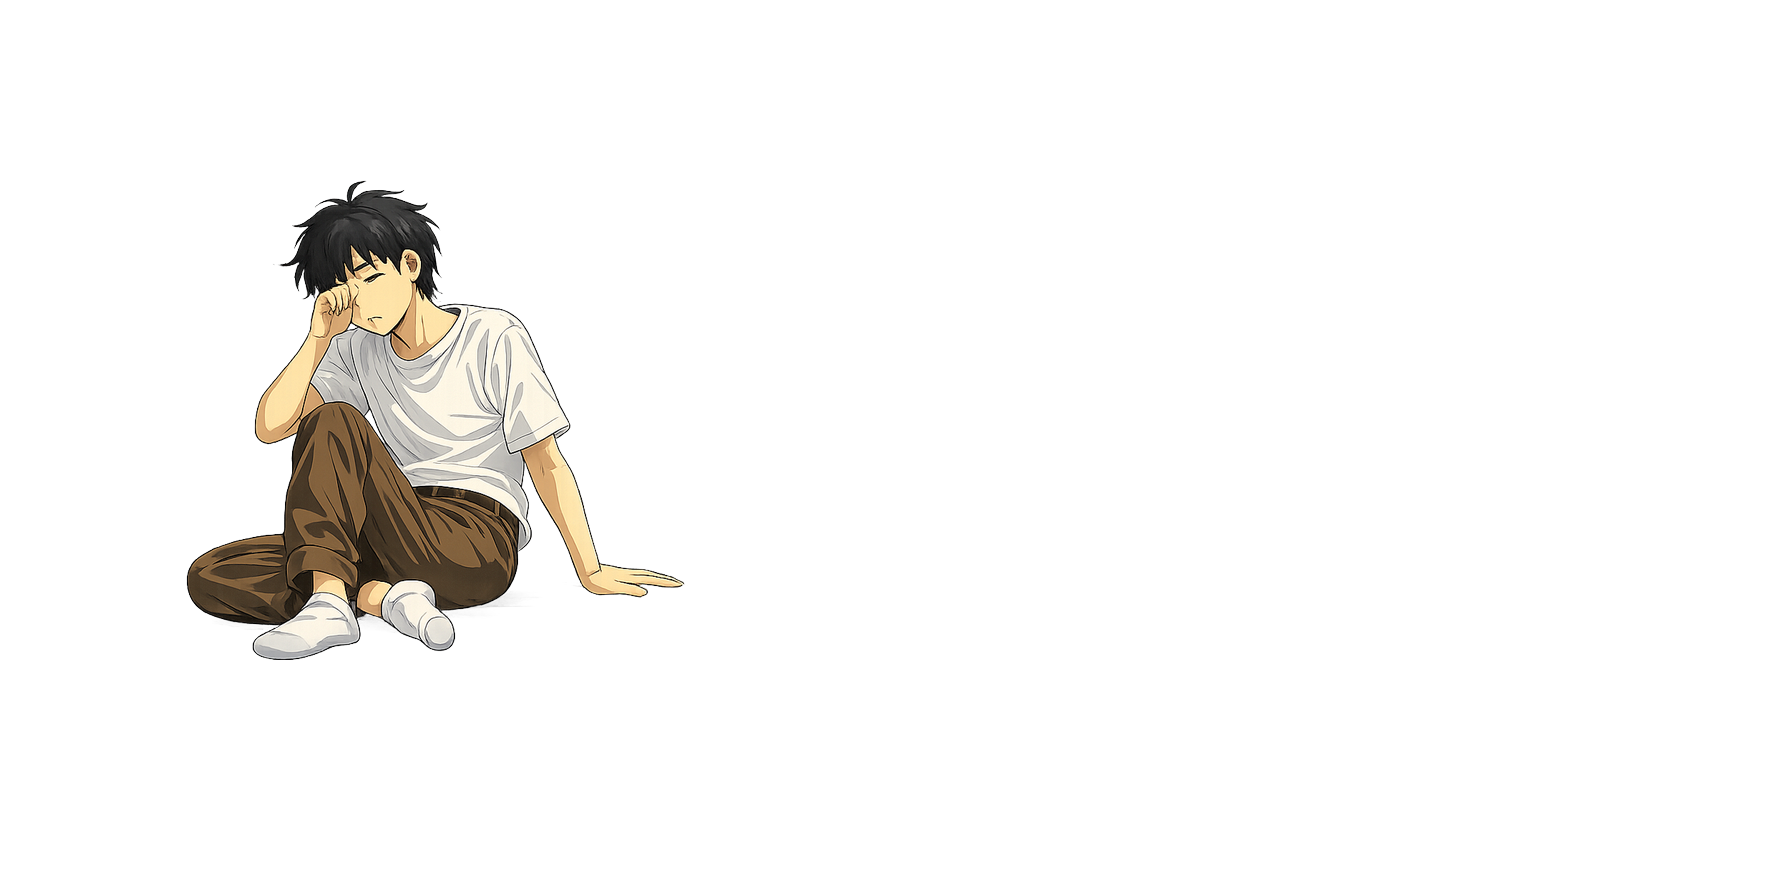
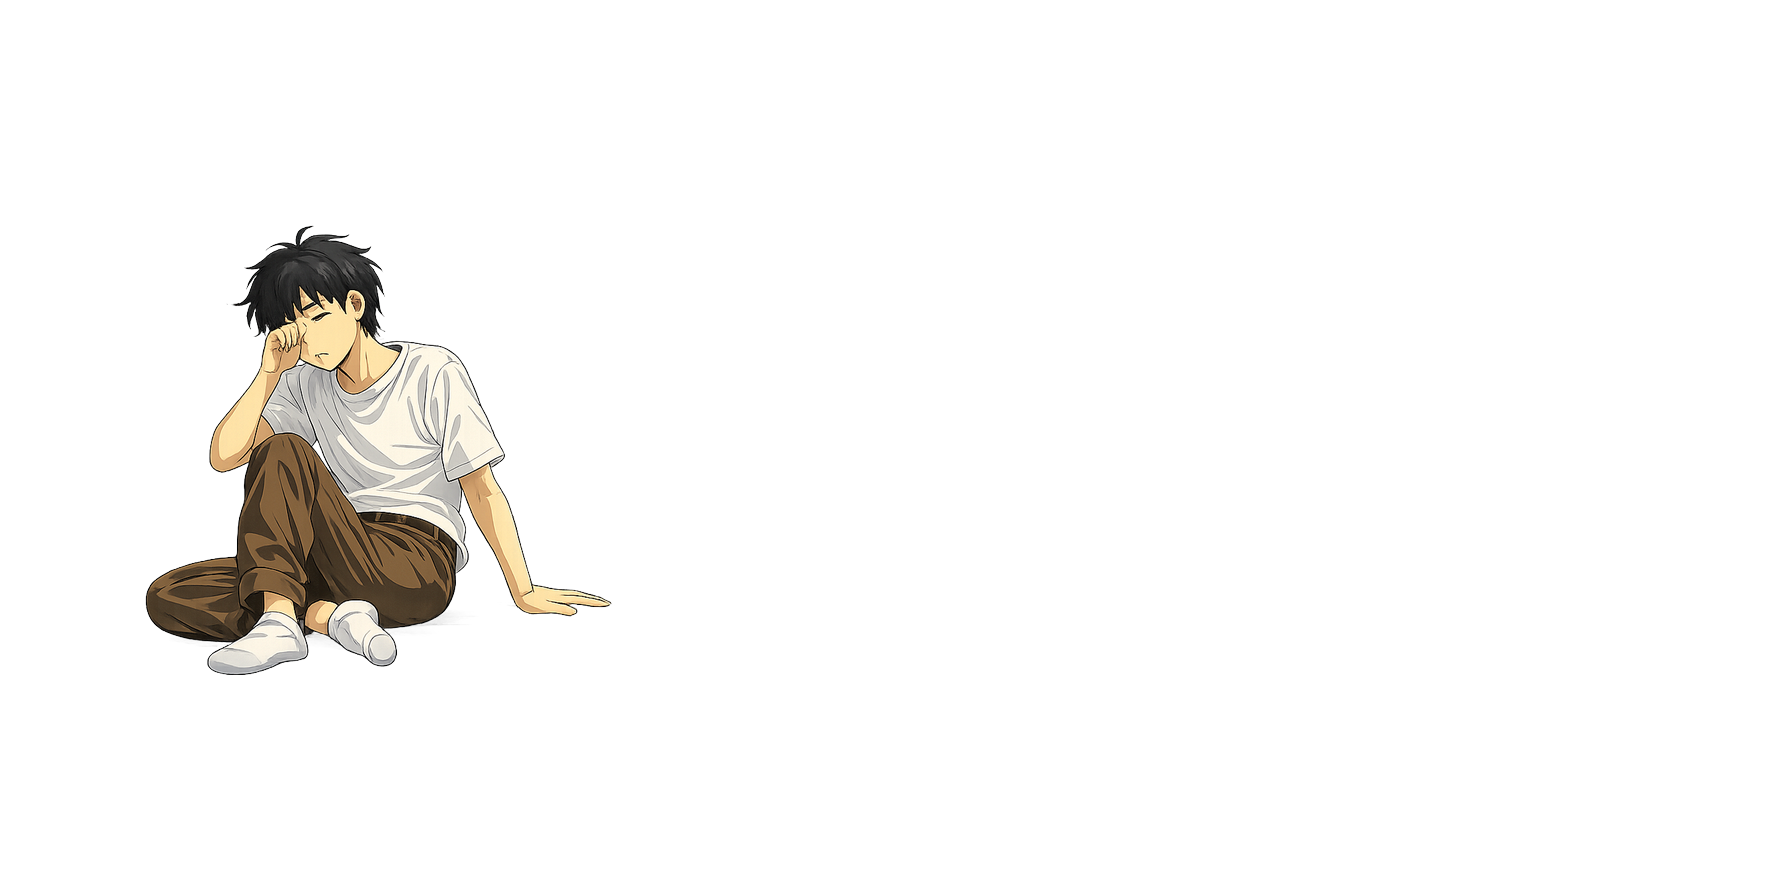
Fine-tune animatic smoothing, scale, and bed placement

Changed region(s): [[0.062, 0.2131, 0.403, 0.761]]

diff --git a/studio/build_animatic.py b/studio/build_animatic.py
@@ -8,20 +8,25 @@ from PIL import Image
 TARGET_W, TARGET_H = 1774, 887
 
 # Dynamic Alignment Settings
-DEFAULT_ANCHOR_X = 437
-DEFAULT_ANCHOR_Y = 660
-DEFAULT_TARGET_HEIGHT = 480  # Slightly smaller to match frame 12 proportions 
+DEFAULT_ANCHOR_X = 380  # Shifted left (-x) so the boy is fully on the bed
+DEFAULT_ANCHOR_Y = 675  # Shifted down slightly so his hand rests firmly on the bed
+DEFAULT_TARGET_HEIGHT = 450  # Scaled down sitting sequence as requested
 
 FRAME_CONFIGS = {
     # --- NON-DYNAMIC: Tumbling sequence (falling into bed) ---
     # We disable dynamic cropping here so it uses your EXACT original manual offsets!
     "frame0.png": {"dynamic": False, "offset_x": -420, "offset_y": 10, "rotation": -50, "scale": 0.5},
     "frame1.png": {"dynamic": False, "offset_x": -420, "offset_y": 10, "rotation": -50, "scale": 0.5},
-    "frame2.png": {"dynamic": False, "offset_x": -450, "offset_y": -40, "rotation": -10, "scale": 0.5},
     
     # --- DYNAMIC: Sitting frames ---
+    # Smoothing out the AI inconsistencies from frames 2 to 5 (scaled around the new 450 base):
+    "frame2.png": {"dynamic": True, "target_height": 450},
+    "frame3.png": {"dynamic": True, "target_height": 460},
+    "frame4.png": {"dynamic": True, "target_height": 440},
+    "frame5.png": {"dynamic": True, "target_height": 445},
+    
     # Frame 13 was generated too big by ChatGPT, we scale it down custom here:
-    "frame13.png": {"dynamic": True, "target_height": 450},
+    "frame13.png": {"dynamic": True, "target_height": 420},
     
     # --- DYNAMIC: Stand-up sequence ---
     # Since he is standing, his bounding box includes his legs!
